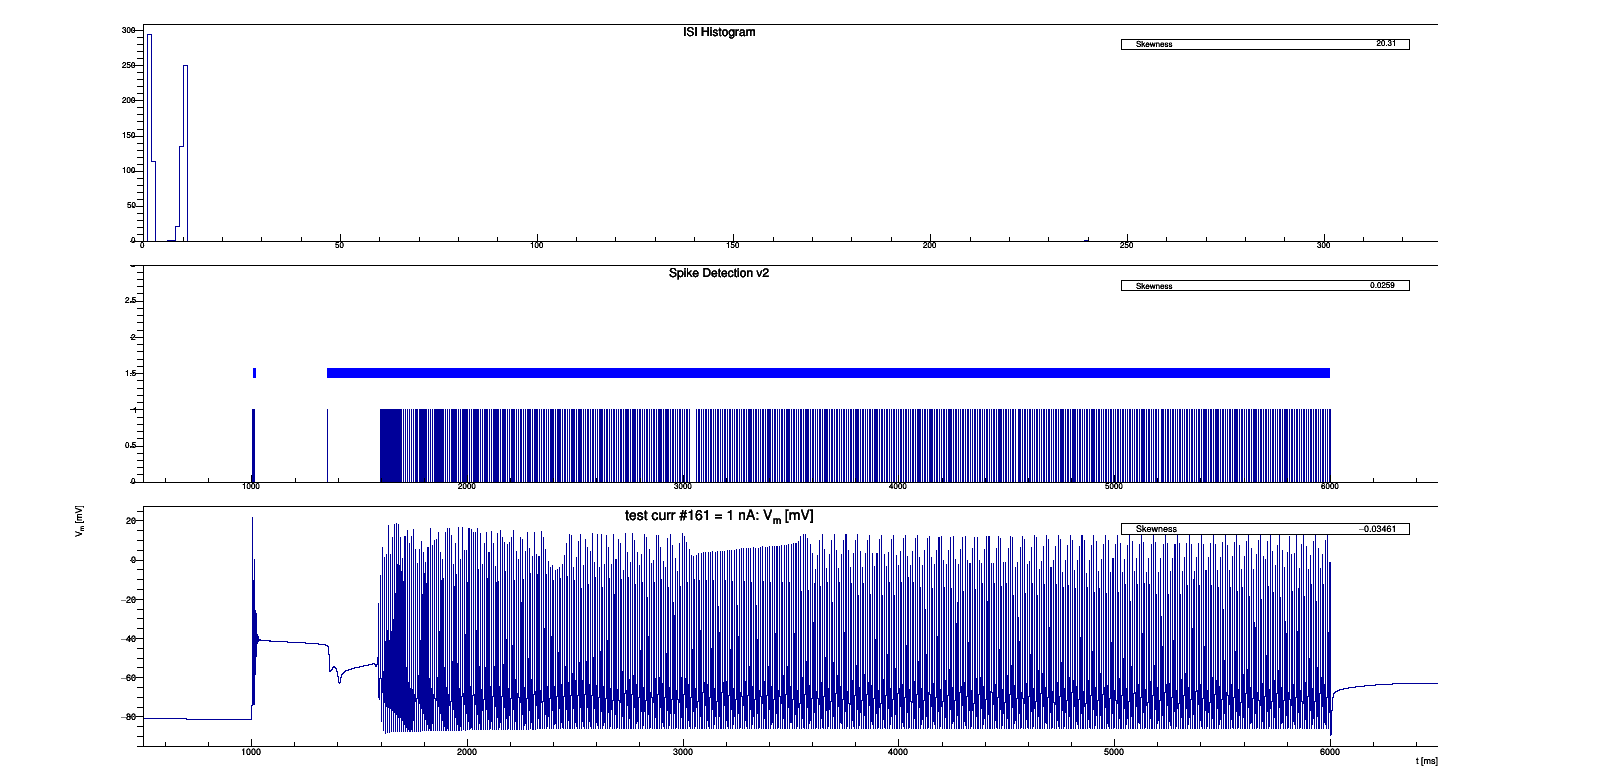
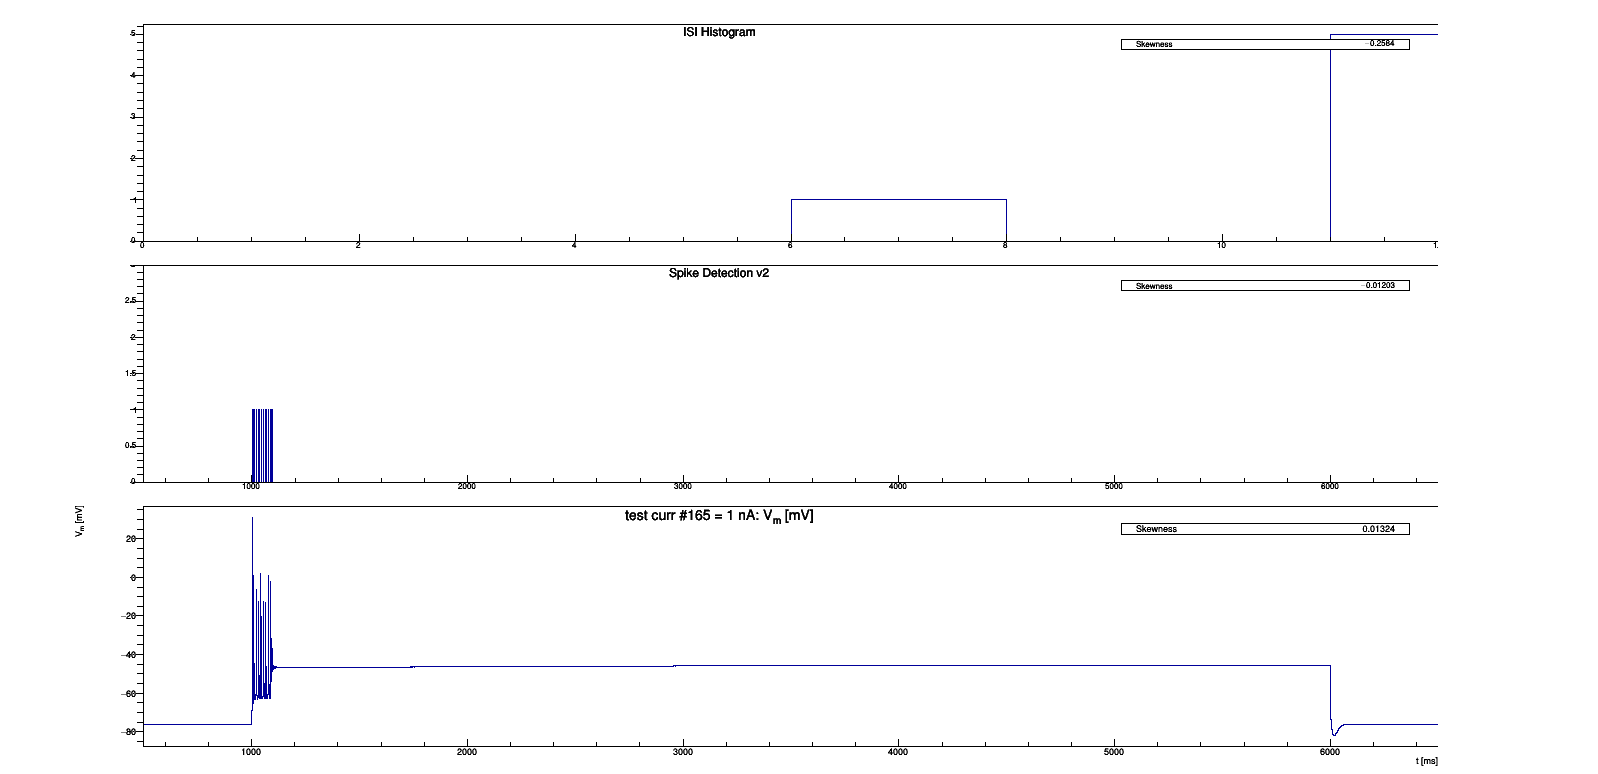
spike cleaning method complete

diff --git a/burst.h b/burst.h
@@ -100,7 +100,7 @@ class Burst {
             k = constant;
 
             SpkDetection(V);
-
+            
             //set seconds per bin using bin width
             seconds_per_bin = spike_train_V2->GetBinWidth(0);
             n_bins = spike_train_V2->GetNbinsX();
@@ -417,8 +417,15 @@ void Burst::DetectBurst(){
 void Burst::ProcessNeuron(){
     //method: 0 = standard, 1 = cma
     cout << "\nProcessing entry: " << id;
+    
     Spikes();
-    CleanSpikes(10);
+    CleanSpikes(5);
+    spikes_x.clear();
+    n_spikes = 0;
+    Spikes();
+
+    
+
     if(n_spikes > 0){
         ISI();
         ISIHistogram();
@@ -564,25 +571,35 @@ void Burst::CleanSpikes(double window){
             float   y_2{ 0. };
             float   m{ 0. };
             float   m_max { 0. };
-        } Spk_Frame;
+
+            Frame(int spike_x, TH1F* v_hist, double delta){
+                
+                // set start x & y
+                x_1 = spike_x - delta;
+                 if(x_1 < 1) {
+                    x_1 = 1;
+                }
+                y_1 = v_hist->GetBinContent(v_hist->GetXaxis()->FindBin(x_1));
+
+                // set end x & y
+                x_2 = x_1 + (v_hist->GetBinWidth(0));
+                if(x_2 > v_hist->GetNbinsX()) {
+                    x_2 = v_hist->GetNbinsX();
+                }
+                y_2 =  v_hist->GetBinContent(v_hist->GetXaxis()->FindBin(x_2));
+
+                start_x = x_1;
+                end_x = start_x + (delta * 2);
+            }
+        };
 
 
         cout << "\nSpike: " << spike;
         cout << "\n    BinContent: " << spike_train_V2->GetBinContent(spike);
         cout << "\n    BinsWidth: " << V->GetBinWidth(0) << " NBins: " << V->GetNbinsX();
-        
-        
 
-        Spk_Frame.x_1 = spike - window;
-        if(Spk_Frame.x_1 < 1) {Spk_Frame.x_1 = 1;}
-        Spk_Frame.y_1 = V->GetBinContent(Spk_Frame.x_1);
 
-        Spk_Frame.x_2 = Spk_Frame.x_1 + (V->GetBinWidth(0));
-        if(Spk_Frame.x_2 > V->GetNbinsX()) { Spk_Frame.x_2 = V->GetNbinsX();}
-        Spk_Frame.y_2 =  V->GetBinContent(V->GetXaxis()->FindBin(Spk_Frame.x_2)); //V->GetBinContent(Spk_Frame.x_2);
-
-        Spk_Frame.start_x = Spk_Frame.x_1;
-        Spk_Frame.end_x = Spk_Frame.start_x + (window * 2);
+        Frame Spk_Frame = Frame(spike, V, window);
 
         while (Spk_Frame.x_1 < Spk_Frame.end_x){
 
@@ -591,7 +608,7 @@ void Burst::CleanSpikes(double window){
             if (Spk_Frame.m > Spk_Frame.m_max) {Spk_Frame.m_max = Spk_Frame.m;}
 
             //print
-            printf("\n    1 - (%f, %f) - (%f, %f) - m: %f, m_max: %f", Spk_Frame.x_1, Spk_Frame.y_1, Spk_Frame.x_2, Spk_Frame.y_2, Spk_Frame.m, Spk_Frame.m_max);
+            if(spike == 1350) {printf("\n    1 - (%f, %f) - (%f, %f) - m: %f, m_max: %f", Spk_Frame.x_1, Spk_Frame.y_1, Spk_Frame.x_2, Spk_Frame.y_2, Spk_Frame.m, Spk_Frame.m_max);}
             
             // Move frame 1 bin
             Spk_Frame.x_1   +=  V->GetBinWidth(0);
@@ -601,7 +618,7 @@ void Burst::CleanSpikes(double window){
             Spk_Frame.y_2   =   V->GetBinContent(V->GetXaxis()->FindBin(Spk_Frame.x_2));
         }
     
-        if(Spk_Frame.m_max < 100) {
+        if(Spk_Frame.m_max < 20) {
             spike_train_V2->SetBinContent(spike, 0);
         }
     
